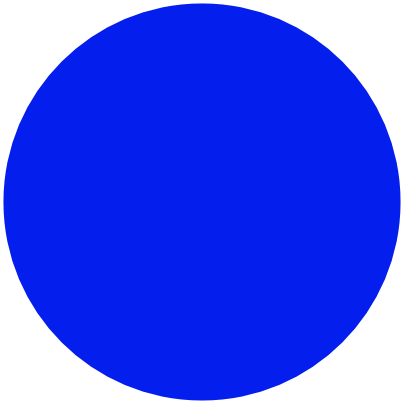
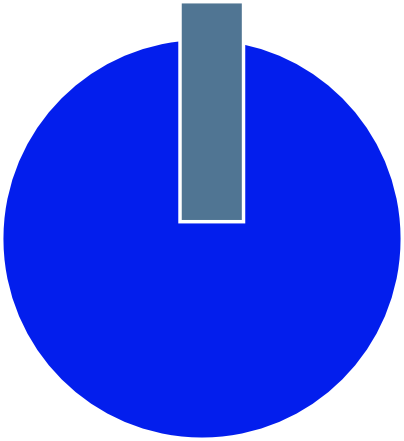
Scene01 With Attacking code

diff --git a/Assets/TopDownControl.cs b/Assets/TopDownControl.cs
@@ -8,7 +8,11 @@ public class TopDownControl : MonoBehaviour {
     public KeyCode m_Left;
     public KeyCode m_Right;
 
+    public KeyCode m_Attack;
+
     public float m_MovementSpeed;
+
+    
 
 	// Use this for initialization
 	void Start () {
@@ -17,12 +21,24 @@ public class TopDownControl : MonoBehaviour {
 	
 	// Update is called once per frame
 	void FixedUpdate () {
-        if (Input.GetKey(m_Up)) transform.Translate(Vector3.up * m_MovementSpeed);
-        if (Input.GetKey(m_Down)) transform.Translate(Vector3.down * m_MovementSpeed);
-        if (Input.GetKey(m_Left)) transform.Translate(Vector3.left * m_MovementSpeed);
-        if (Input.GetKey(m_Right)) transform.Translate(Vector3.right * m_MovementSpeed);
+        if (Input.GetKey(m_Up)) Move(Vector3.up * m_MovementSpeed);
+        if (Input.GetKey(m_Down)) Move(Vector3.down * m_MovementSpeed);
+        if (Input.GetKey(m_Left)) Move(Vector3.left * m_MovementSpeed);
+        if (Input.GetKey(m_Right)) Move(Vector3.right * m_MovementSpeed);
+
+        if (Input.GetKeyDown(m_Attack)) GetComponentInChildren<Weapon>().Attack();
 	
 	}
+
+    void Move(Vector3 moveVec)
+    {
+        transform.Translate(moveVec, Space.World);
+        var angle = Vector3.Angle(Vector3.up, moveVec);
+        angle = moveVec.x < 0.0f ? angle : -angle;
+
+
+        transform.rotation = Quaternion.AngleAxis(angle, Vector3.forward);
+    }
 
     public void OnCollisionEnter2D(Collision2D coll) {
         if (coll.gameObject.tag == "Enemy")

diff --git a/Assets/Player.cs b/Assets/Player.cs
@@ -3,13 +3,50 @@ using System.Collections;
 
 public class Player : MonoBehaviour {
 
+
+    private float m_StunTimer;
+    private float m_SlowTimer;
+
+    public float m_MovementSpeed;
+
 	// Use this for initialization
 	void Start () {
 	
 	}
 	
 	// Update is called once per frame
-	void Update () {
-	
+	void FixedUpdate () {
+        TopDownControl control = GetComponent<TopDownControl>();
+
+        if (m_StunTimer > 0)
+        {
+            control.m_MovementSpeed = 0;
+            m_StunTimer = Mathf.Max(m_StunTimer - Time.fixedDeltaTime, 0);
+        }
+
+        if (m_SlowTimer > 0)
+        {
+            control.m_MovementSpeed = Mathf.Min(m_MovementSpeed * 0.5f, control.m_MovementSpeed);
+            m_SlowTimer = Mathf.Max(m_SlowTimer - Time.fixedDeltaTime, 0);
+        }
+
+        if(m_StunTimer == 0 && m_SlowTimer == 0)
+        {
+            control.m_MovementSpeed = m_MovementSpeed;
+        }
+        
 	}
+
+    void OnCollisionEnter2D(Collision2D coll)
+    {
+        var weapon = coll.transform.GetComponent<Weapon>();
+
+        if(weapon != null && weapon != GetComponentInChildren<Weapon>())
+        {
+            if (weapon.m_IsAttacking)
+            {
+                m_StunTimer = weapon.m_StunLength;
+            }
+        }
+    }
 }

diff --git a/Assets/Weapon.cs b/Assets/Weapon.cs
@@ -1,0 +1,48 @@
+using UnityEngine;
+using System.Collections;
+
+public class Weapon : MonoBehaviour {
+    
+    private float m_AnimationTimer;
+    public float m_AnimationLength;
+    public float m_AttackRange;
+
+    public bool m_IsAttacking;
+
+    public float m_StunLength;
+
+	// Use this for initialization
+	void Start () {
+	
+	}
+	
+	// Update is called once per frame
+	void FixedUpdate () {
+        if (m_IsAttacking)
+        {
+            m_AnimationTimer += Time.fixedDeltaTime;
+        
+            if(m_AnimationTimer >= m_AnimationLength)
+            {
+                m_IsAttacking = false;
+            }
+            else if (m_AnimationTimer >= m_AnimationLength / 2)
+            {
+                transform.Translate(Vector3.down * m_AttackRange / 2 * Time.fixedDeltaTime);
+            }
+            else if (m_AnimationTimer <= m_AnimationLength / 2)
+            {
+                transform.Translate(Vector3.up * m_AttackRange / 2 * Time.fixedDeltaTime);
+            }
+        }
+	}
+
+    public void Attack()
+    {
+        if(!m_IsAttacking)
+        {
+            m_IsAttacking = true;
+            m_AnimationTimer = 0;
+        }
+    }
+}
